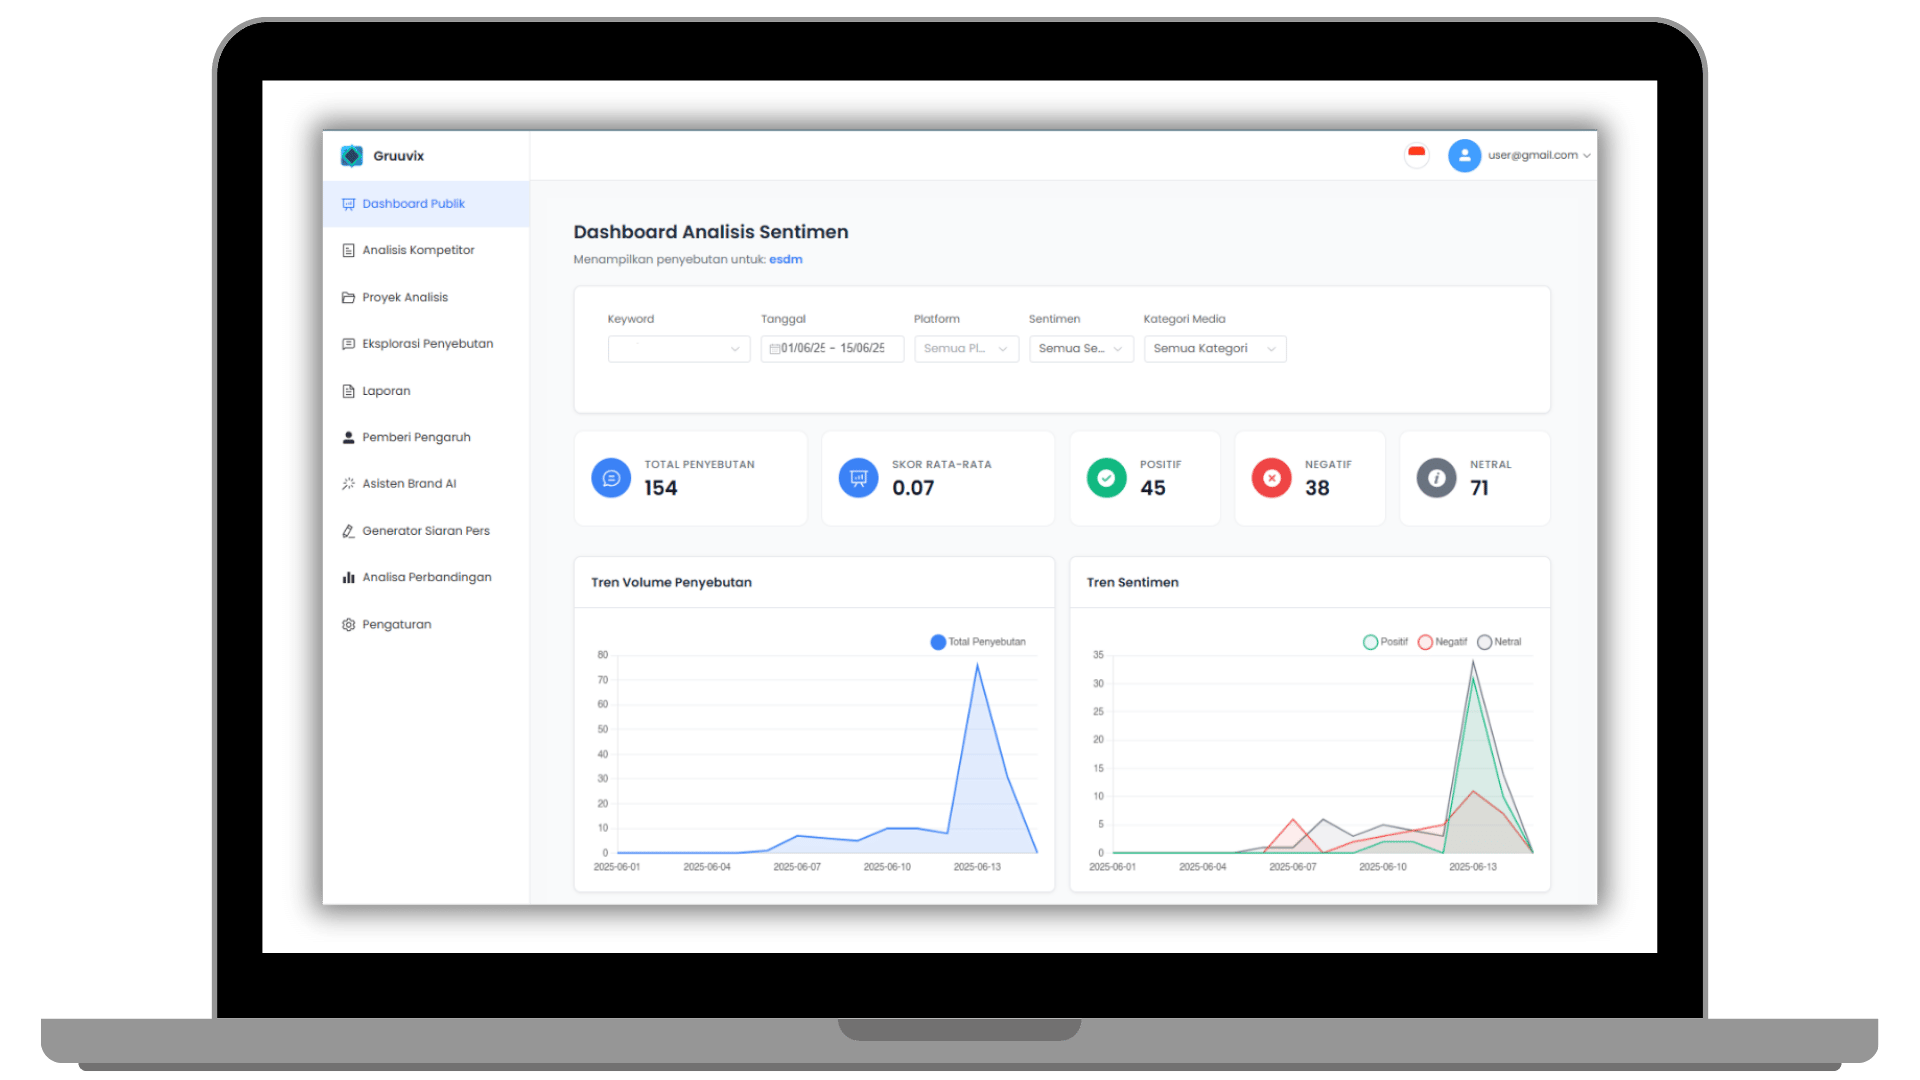
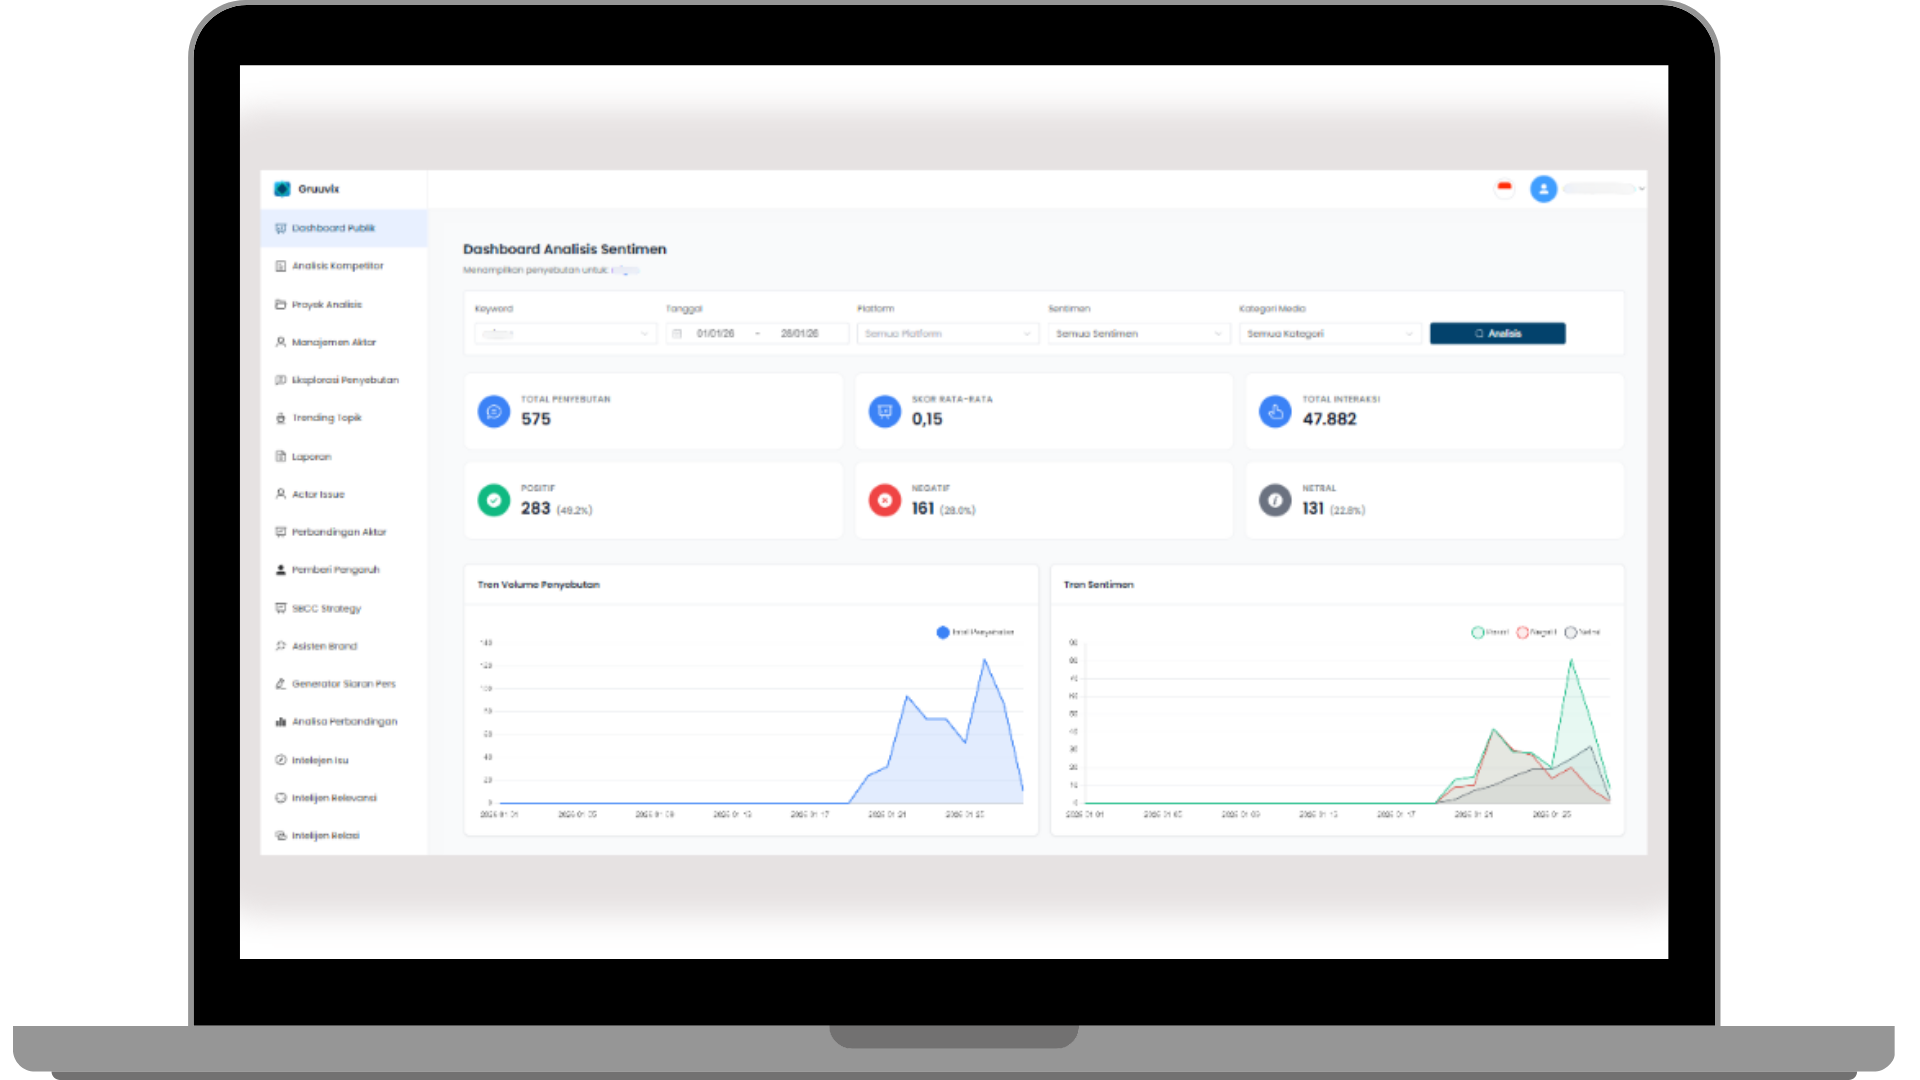
update application esg synthesis

diff --git a/index.html b/index.html
@@ -407,6 +407,9 @@
             <div class="client-logo">
                 <img src="images/logo-gruuvix.png" alt="Gruuvix">
             </div>
+            <div class="client-logo">
+                <img src="images/logo-esg.png" alt="Gruuvix">
+            </div>
 
             <div class="client-logo">
                 <img src="images/logo-ganoAI.png" alt="GanoAI">
@@ -425,6 +428,9 @@
             </div>
             <div class="client-logo">
                 <img src="images/logo-gruuvix.png" alt="Gruuvix">
+            </div>
+            <div class="client-logo">
+                <img src="images/logo-esg.png" alt="Gruuvix">
             </div>
         </div>
     </div>
@@ -559,35 +565,49 @@
             </div>
         </div>
 
-        <div class="row mt-5 justify-content-center equal-height-wrapper">
-    <div class="col-lg-6">
-        <div class="app-showcase equal-height-card">
-            <h4 class="gradient-text">GameSawit</h4>
-            <div class="app-image-container">
-                <img src="images/application/gamesawit1.png" alt="GameSawit Application" class="app-image">
-                <div class="app-overlay">
-                    <div class="app-overlay-content">
-                        <a href="https://tortiedeveloper.github.io/Game-Sawit/" target="_blank" class="btn btn-sm btn-light">Learn More</a>
+    <div class="row mt-5 justify-content-center equal-height-wrapper">
+    
+        <div class="col-lg-6">
+            <div class="app-showcase equal-height-card">
+                <h4 class="gradient-text">ESG Synthesis</h4>
+                <div class="app-image-container">
+                    <img src="images/application/esg.png" alt="esg Application" class="app-image">
+                    <div class="app-overlay">
+                        <div class="app-overlay-content">
+                            <a href="https://esgsynthesis.com/" target="_blank" class="btn btn-sm btn-light">Learn More</a>
+                        </div>
                     </div>
                 </div>
             </div>
         </div>
-    </div>
 
-    <div class="col-lg-6 mt-4 mt-lg-0">
-        <div class="app-showcase equal-height-card">
-            <h4 class="gradient-text">Gruuvix</h4>
-            <div class="app-image-container">
-                <img src="images/application/gruuvix.png" alt="Gruuvix Application" class="app-image">
-                <div class="app-overlay">
-                    <div class="app-overlay-content">
-                        <a href="http://www.gruuvix.com" target="_blank" class="btn btn-sm btn-light">Learn More</a>
+        <div class="col-lg-6 mt-4 mt-lg-0">
+            <div class="app-showcase equal-height-card">
+                <h4 class="gradient-text">Gruuvix</h4>
+                <div class="app-image-container">
+                    <img src="images/application/gruuvix.png" alt="Gruuvix Application" class="app-image">
+                    <div class="app-overlay">
+                        <div class="app-overlay-content">
+                            <a href="http://www.gruuvix.com" target="_blank" class="btn btn-sm btn-light">Learn More</a>
+                        </div>
                     </div>
                 </div>
             </div>
         </div>
-    </div>
-</div>
+
+        <div class="col-lg-6 mx-auto mt-4">
+            <div class="app-showcase equal-height-card">
+                <h4 class="gradient-text">GameSawit</h4>
+                <div class="app-image-container">
+                    <img src="images/application/gamesawit1.png" alt="GameSawit Application" class="app-image">
+                    <div class="app-overlay">
+                        <div class="app-overlay-content">
+                            <a href="https://tortiedeveloper.github.io/Game-Sawit/" target="_blank" class="btn btn-sm btn-light">Learn More</a>
+                        </div>
+                    </div>
+                </div>
+            </div>
+        </div>
 
     </div>
 </section>
